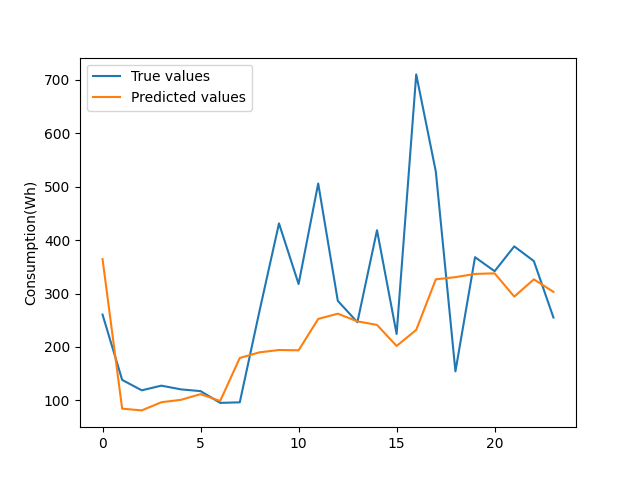
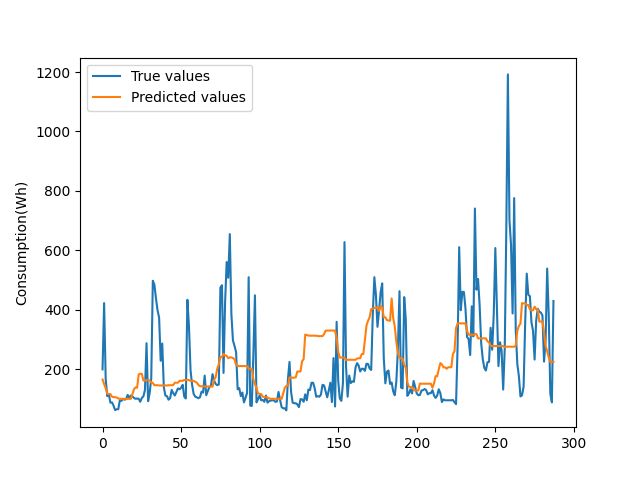
xgb test

diff --git a/Models/XGB.py b/Models/XGB.py
@@ -2,6 +2,7 @@ import pandas as pd
 import xgboost
 from sklearn.preprocessing import StandardScaler
 import helper
+import numpy as np
 
 #from sklearn.model_selection import GridSearchCV
 
@@ -35,21 +36,51 @@ def XGB_regressor_model(filename=None, set=[], scale=False):
         x_test = scaler.transform(x_test)
 
     model = xgboost.XGBRegressor(
+        booster='gbtree',
         eval_metric='rmse',
+        early_stopping_rounds=100,
+        objective='reg:linear',
         learning_rate=0.015,
-        max_depth=5,
-        n_estimators=100
+        max_depth=6,
+        n_estimators=1500
     )
 
-    model.fit(x_train, y_train)
+    model.fit(x_train, y_train, eval_set=[(x_train, y_train), (x_test, y_test)], verbose=100)
     y_predict = model.predict(x_test)
     aggregated = helper.aggregate(y_test.values, y_predict)
-    # helper.plot_model(y_test.values, y_predict)
-    # helper.plot_model(aggregated[0], aggregated[1], 'R_F')
-    # return helper.evaluate_model(y_test.values, y_predict)
+    helper.plot_model(test_set.index, y_test.values, y_predict, 'R_F')
+    helper.plot_model(test_set.index, aggregated[0], aggregated[1], 'R_F_aggregated')
+    print("Accuracy : ")
+    print(helper.evaluate_model(y_test.values, y_predict))
     return helper.evaluate_model(aggregated[0], aggregated[1])
 
 
 if __name__ == '__main__':
-    XGB_regressor_model(filename='../Datasets/one_year_09.csv')
+    variables09 = ['Minutes', 'Humidity', 'Day', 'Snow depth', 'Snowfall', 'Weekend', 'Temperature']
+    df = pd.read_csv('../Datasets/one_year_09_datetime.csv', index_col=["Datetime"],
+                             parse_dates=["Datetime"])
+
+    train_set = df[:'2021-05-28 00:00:00']
+    test_set = df['2021-05-28 00:00:00':]
+
+    x_train = np.transpose([train_set[var].to_numpy() for var in variables09])
+    y_train = train_set["Consumption(Wh)"]
+    x_test = np.transpose([test_set[var].to_numpy() for var in variables09])
+    y_test = test_set["Consumption(Wh)"]
+    print("Agrregated accuracy")
+    print(XGB_regressor_model(set=[x_train, y_train, x_test, y_test]))
+
+    variables10 = ['Minutes', 'Month', 'Weekend', 'Temperature', 'Snowfall', 'Pressure']
+    df = pd.read_csv('../Datasets/one_year_10_datetime.csv', index_col=["Datetime"],
+                             parse_dates=["Datetime"])
+
+    train_set = df[:'2021-02-05 00:00:00']
+    test_set = df['2021-02-05 00:00:00':]
+
+    x_train = np.transpose([train_set[var].to_numpy() for var in variables09])
+    y_train = train_set["Consumption(Wh)"]
+    x_test = np.transpose([test_set[var].to_numpy() for var in variables09])
+    y_test = test_set["Consumption(Wh)"]
+    print("Agrregated accuracy")
+    print(XGB_regressor_model(set=[x_train, y_train, x_test, y_test]))
 

diff --git a/helper.py b/helper.py
@@ -28,14 +28,14 @@ def make_sets(filename):
     return train_df, validation_df, test_df
 
 
-def plot_model(y, y_predict, model_name):
+def plot_model(dates, y, y_predict, model_name):
     fig, ax = plt.subplots()
     ax.plot(y, label='True values')
     ax.plot(y_predict, label='Predicted values')
     ax.set_ylabel("Consumption(Wh)")
     ax.legend(facecolor='white')
     fig1 = plt.gcf()
-    fig1.savefig('plots/' + model_name)
+    fig1.savefig('../plots/' + model_name)
     plt.show()
 
 
